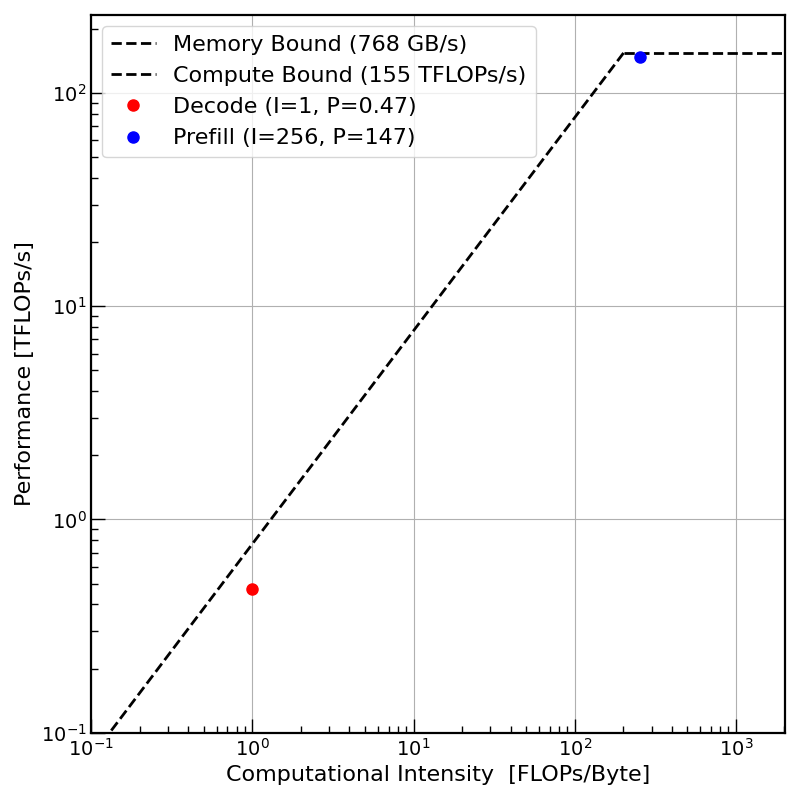
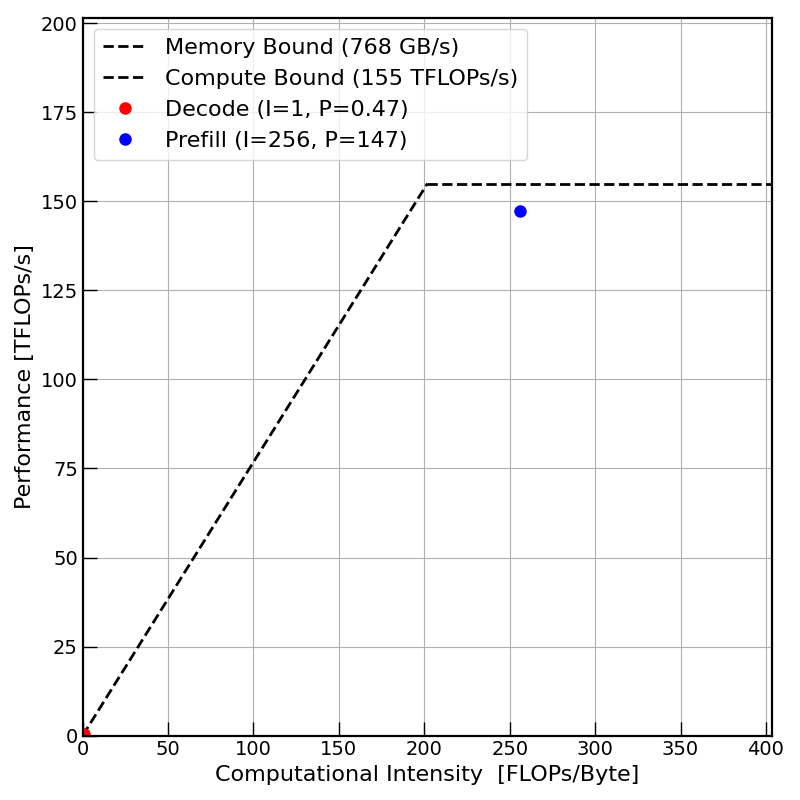
roofline

diff --git a/scripts/plot_roofline.py b/scripts/plot_roofline.py
@@ -45,7 +45,7 @@ def parse_args():
     return parser.parse_args()
 
 
-def plot_roofline(bandwidth, peak, mem_unit=2, log=True):
+def plot_roofline(bandwidth, peak, mem_unit=2, log=False):
     # mem_unit is bytes per mop
     # (TFLOPs/s) * (bytes/mop) * (GB/s) = TFLOPs/GMOPs = 1e3 FLOPs/MOPs
 #    I_c = peak * mem_unit / bandwidth  # TFLOPs/GMOPs
@@ -79,12 +79,13 @@ def plot_roofline(bandwidth, peak, mem_unit=2, log=True):
     C_f = 2 * N_params # forward pass compute per token generated, FLOPs/token
 
     # Prefill calculation
-    batch_size = 256 # TODO: this is a placeholder
+    batch_size = 1 # TODO: this is a placeholder
+    context_length = 256 # TODO: this is a placeholder
     efficiency = 0.95  # TODO: this is a placeholder
     R_peak = peak * 1e12 / (C_f*batch_size)
     R_prefill = R_peak * efficiency  # tokens/s  # TODO: this is a placeholder
     # FIXME: This is the main TODO: How to express I_prefill?
-    I_prefill = 1.0 * batch_size  # TODO: this is a placeholder # 2.0 FLOPs/MOPs(fp16) = 1.0 FLOPs/B
+    I_prefill = 1.0 * batch_size * context_length  # TODO: this is a placeholder # 2.0 FLOPs/MOPs(fp16) = 1.0 FLOPs/B
     P_prefill = C_f * batch_size * R_prefill # FLOPs/s
     P_prefill = P_prefill * 1e-12  # TFLOPs
     print("R_peak = %.1f tokens/s" % R_peak)
